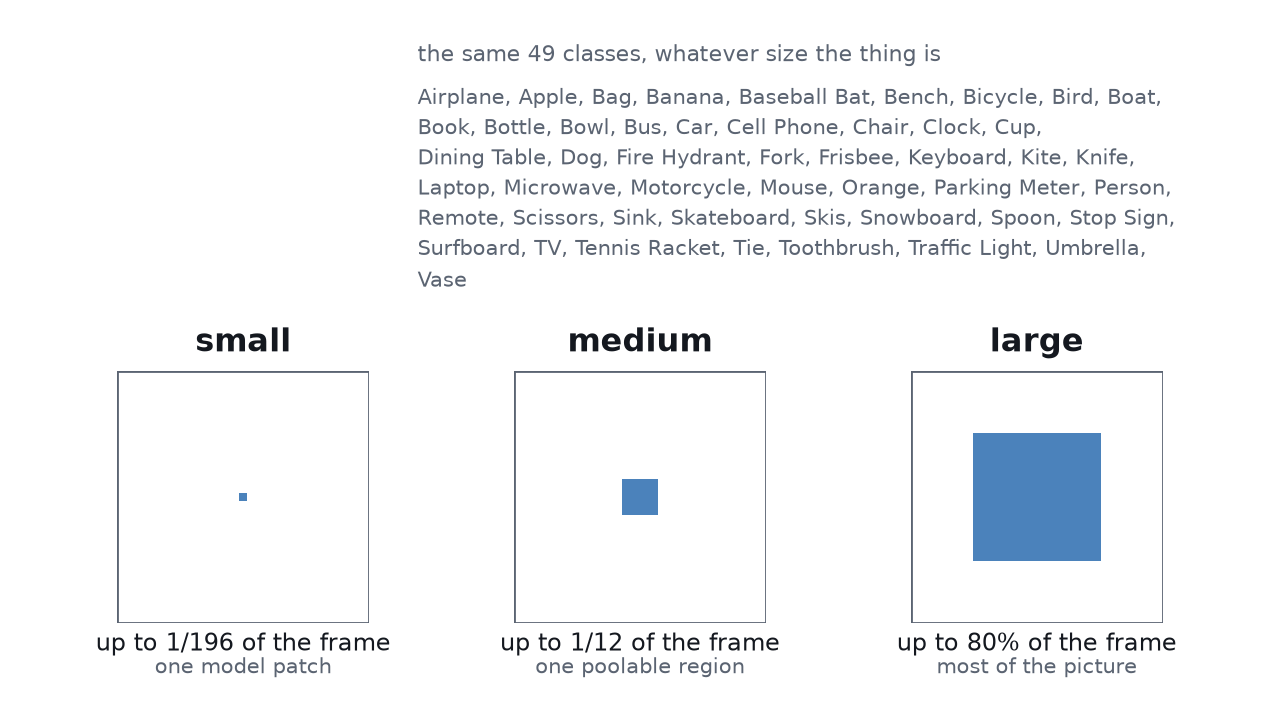
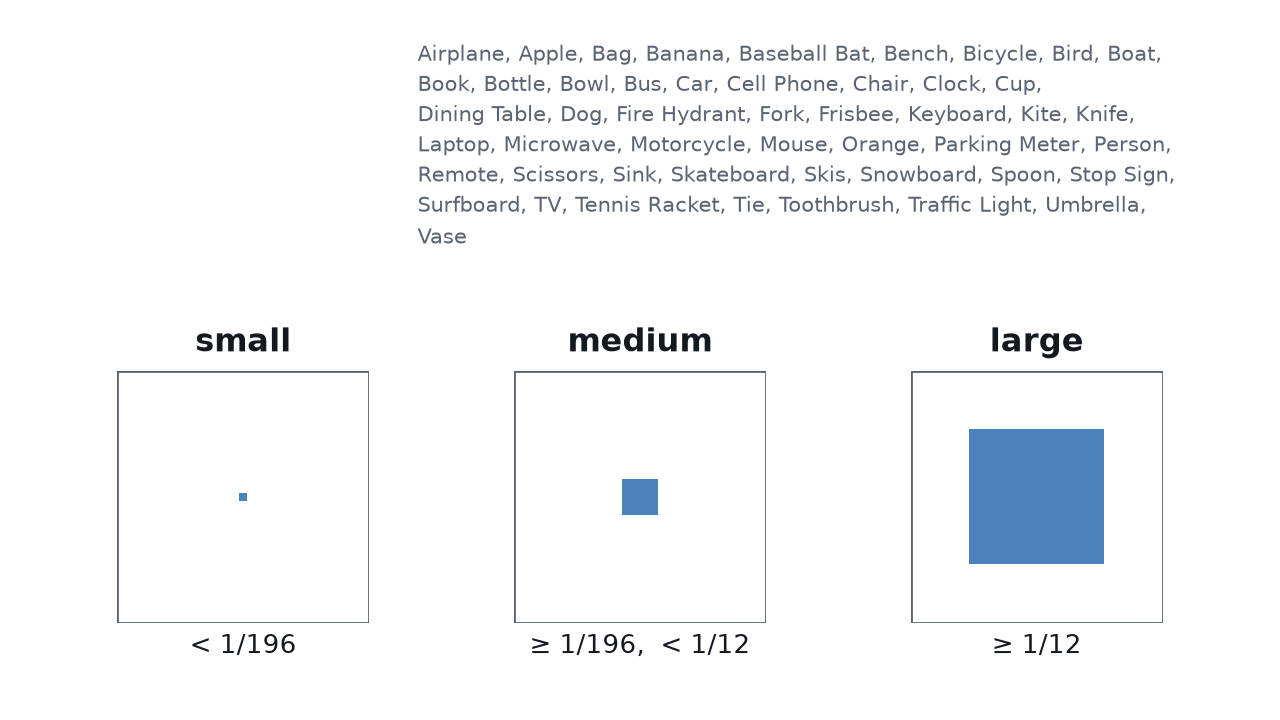
slides: size bands as numbers; large now runs to the full frame
Claude-Session: https://claude.ai/code/session_014JBHgZWy5NLFcomscNSakK

diff --git a/slides/figs/src/make-dataset-figs.py b/slides/figs/src/make-dataset-figs.py
@@ -211,6 +211,22 @@ def _quarry_classes(pc: Any) -> list[str]:
     return list(pc.SCALE_CLASSES)
 
 
+def _fraction(x: float) -> str:
+    """An area fraction the way the band edges are defined: 1/196, 1/12, 100%."""
+    if x >= 1.0:
+        return "100%"
+    return f"1/{round(1 / x)}"
+
+
+def _band_rule(lo: float, hi: float) -> str:
+    """A band's edges as the inequality `BOX_BANDS` applies: `lo <= area < hi`."""
+    if lo <= 0.0:
+        return f"< {_fraction(hi)}"
+    if hi >= 1.0:
+        return f"≥ {_fraction(lo)}"
+    return f"≥ {_fraction(lo)},  < {_fraction(hi)}"
+
+
 def fig_quarry_bands(pc: Any) -> plt.Figure:
     """What the three bands *are*: box area against the model's own geometry.
 
@@ -251,24 +267,17 @@ def fig_quarry_bands(pc: Any) -> plt.Figure:
             )
         )
         ax.set_title(name, fontsize=FLOOR_PT + 8, color=INK, pad=14, fontweight="bold")
+        # The edges as numbers, straight from `BOX_BANDS` and in its own
+        # half-open sense (`lo <= area < hi`): words like "one model patch"
+        # are the presenter's to say, and a number cannot drift from the config.
         ax.text(
             0.5,
-            -0.11,
-            f"up to 1/{1 / hi:.0f} of the frame" if hi < 0.5 else f"up to {hi:.0%} of the frame",
+            -0.12,
+            _band_rule(lo, hi),
             transform=ax.transAxes,
             ha="center",
-            fontsize=FLOOR_PT + 2,
+            fontsize=FLOOR_PT + 4,
             color=INK,
-        )
-        upper = {"small": "one model patch", "medium": "one poolable region", "large": "most of the picture"}[name]
-        ax.text(
-            0.5,
-            -0.20,
-            upper,
-            transform=ax.transAxes,
-            ha="center",
-            fontsize=FLOOR_PT,
-            color=SOFT,
         )
 
     # The class list, right of the reserve so the corner stays clear. Set as
@@ -279,10 +288,9 @@ def fig_quarry_bands(pc: Any) -> plt.Figure:
     from data_card import display_class
 
     names = sorted(display_class(name) for name in _quarry_classes(pc))
-    _caption(fig, f"the same {len(names)} classes, whatever size the thing is")
     fig.text(
         RIGHT_X,
-        0.885,
+        0.945,
         # Non-breaking spaces inside a name, so "Dining Table" never splits.
         "\n".join(textwrap.wrap(", ".join(n.replace(" ", "\u00a0") for n in names), 72)),
         fontsize=FLOOR_PT,
